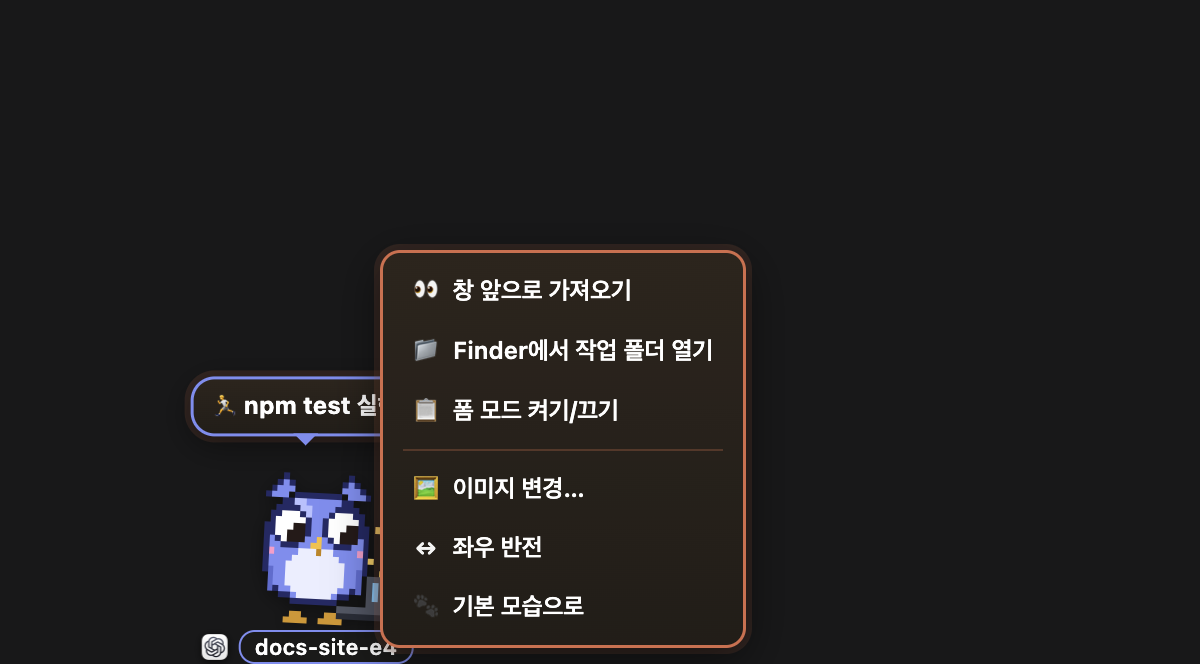
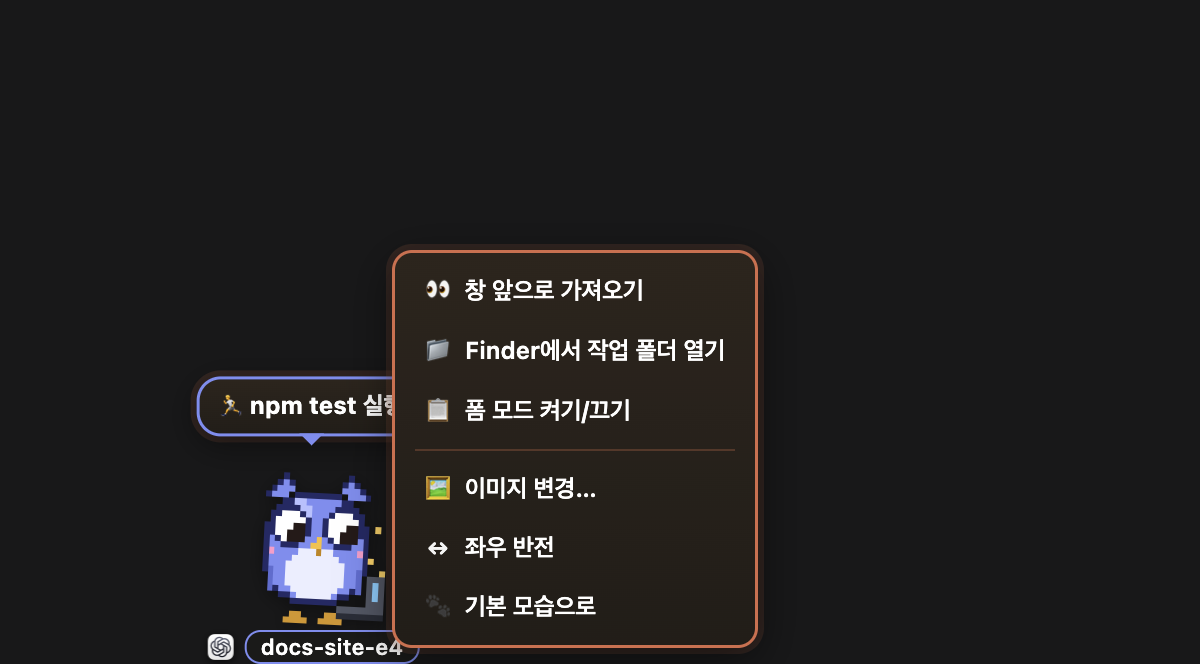
v1.2.1: Codex 데스크톱 배지 위치 수정 (.spet 너비를 도트 스프라이트 72px에 맞춤)
- 1.2.0에서 .spet{width:66px}가 남아 .desktop-badge{right:0;top:49px}가 몸통 위에 걸침
- .spet 72px, 배지는 발 옆 우하단(bottom:22px;right:-6px)·페리윙클, 닫기 버튼 top:10px
- README 변경 내역, CLAUDE.md gotcha, 스크린샷 재생성

Changed region(s): [[0.1542, 0.3614, 0.6475, 1.0]]

diff --git a/pet.html b/pet.html
@@ -164,7 +164,7 @@
   /* ── 세션 펫 (실행 중인 다른 claude 세션들) ── */
   .spet {
     position: absolute; left: 0; top: 0;
-    width: 66px;
+    width: 72px; /* = .swrap 너비(도트 아기 부엉 3x). 배지·말풍선·이름표가 이 박스를 기준으로 정렬된다 */
     z-index: 9;
     cursor: grab;
     will-change: transform;
@@ -172,14 +172,14 @@
   .desktop-badge, .desktop-close { display: none; }
   .spet[data-desktop="true"] .desktop-badge {
     display: flex; align-items: center; justify-content: center;
-    position: absolute; top: 49px; right: 0; width: 18px; height: 16px;
-    background: #243a32; color: #b2e6d0; border: 1px solid #699783;
+    position: absolute; bottom: 22px; right: -6px; width: 18px; height: 16px; /* 발 옆 우하단 (.spet = swrap 90 + 이름표 ~20) */
+    background: #2a2c70; color: #c1c7ff; border: 1px solid #8b95f3;           /* Codex 페리윙클 */
     border-radius: 5px; pointer-events: none;
   }
   .monitor-screen { width: 10px; height: 7px; border: 1px solid currentColor; border-radius: 1px; position: relative; }
   .monitor-screen::after { content: ''; position: absolute; width: 6px; height: 2px; border-bottom: 1px solid currentColor; left: 1px; bottom: -3px; }
   .pet-editing .spet[data-desktop="true"] .desktop-close {
-    display: block; position: absolute; left: -4px; top: 0; width: 26px; height: 26px;
+    display: block; position: absolute; left: -4px; top: 10px; width: 26px; height: 26px;
     border: 1px solid #a3ada7; border-radius: 50%; background: #eef2ef; color: #293b30;
     font: 22px/22px -apple-system, sans-serif; padding: 0; cursor: pointer; z-index: 20;
     box-shadow: 0 2px 5px #0004;

diff --git a/README.md b/README.md
@@ -230,6 +230,9 @@ npx electron test/screenshots.cjs   # README 스크린샷(docs/screenshots/) 재
 
 ## 변경 내역
 
+### 1.2.1
+- Codex 데스크톱 세션 펫의 모니터 배지가 몸통 위 엉뚱한 자리에 걸치던 문제 수정 — 펫 박스 너비를 도트 스프라이트(72px)에 맞추고 배지를 발 옆 우하단으로, 색은 페리윙클로.
+
 ### 1.2.0
 - **기본 캐릭터를 도트(픽셀) 부엉이 가족으로 교체** — 세션펫 아기 부엉(24×30, 3x=72×90)과 메인펫 어미 부엉(30×34, 4x=120×136). 정면 치비 비율(큰 눈이 시선으로 상태 표현) + 걷기는 옆모습 스프라이트. `sprites.js`가 상태별 프레임으로 캔버스에 그림 — 깜빡임·눈동자 이동·노트북 타이핑·색종이·물음표·흙먼지.
 - Codex 색을 민트에서 **페리윙클(하늘~보라)** 로 변경 — 도트 부엉이 몸색·이름표 테두리·말풍선·HP바에 적용.
